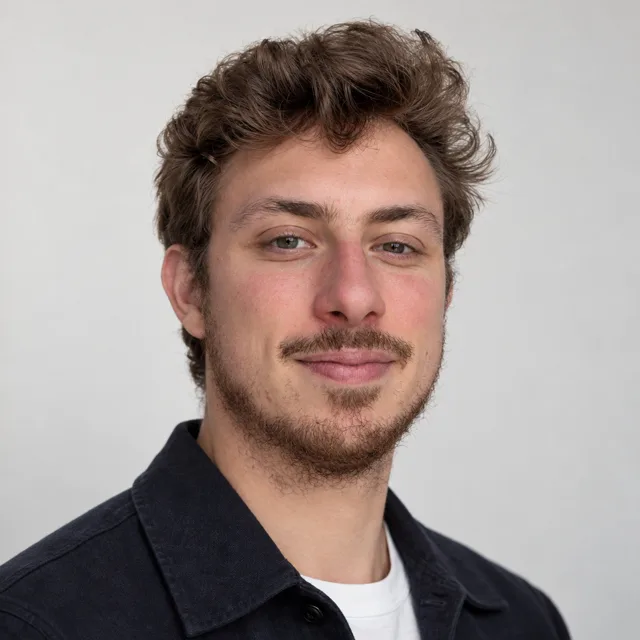
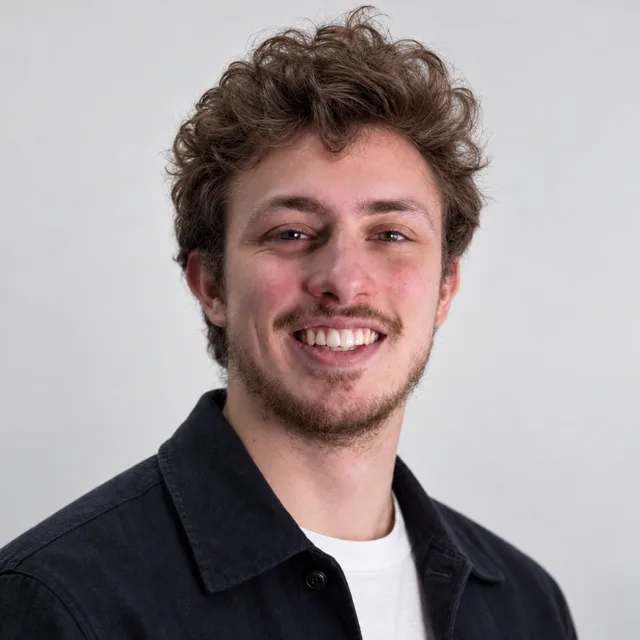
feat: show the work inside the project cards
Each expanded card now carries an image of the thing itself: the No-code
France session on the Make automation, the scoring workflow in n8n during
the live session, and the Podium Fantasy race calendar on mobile. Portrait
screenshots get `contain` so a phone capture is not cropped into nonsense.

The Qobuz cards carry no image and will not: internal screens do not go on
a public page.

Podium Fantasy links to podiumfantasy.com, which is live, and its card now
says what actually runs it: cron jobs pulling the public OpenF1 API and
settling scores with no manual input.

New portrait in the hero.

Changed region(s): [[0.0, 0.0, 0.9062, 1.0], [0.2188, 0.7812, 0.3125, 0.9062], [0.3125, 0.9062, 0.3438, 0.9375]]

diff --git a/src/components/Projects.tsx b/src/components/Projects.tsx
@@ -1,7 +1,9 @@
 "use client";
 
 import { useState } from "react";
+import Image from "next/image";
 import { motion } from "framer-motion";
+import { asset } from "@/lib/base-path";
 import AnimatedSection from "./AnimatedSection";
 
 interface Project {
@@ -14,6 +16,8 @@ interface Project {
   stack: string[];
   status?: string;
   link?: { href: string; label: string };
+  /** Qobuz work carries none on purpose: internal screens do not go public. */
+  media?: { src: string; alt: string; fit: "cover" | "contain" };
 }
 
 const projects: Project[] = [
@@ -51,6 +55,11 @@ const projects: Project[] = [
       href: "https://youtu.be/mV4yLqhmT4I",
       label: "Watch the session on No-code France",
     },
+    media: {
+      src: "/projects/nocode-make.webp",
+      alt: "No-code France session on the Make automation, February 2025",
+      fit: "cover",
+    },
   },
   {
     id: "ai-lead-scoring",
@@ -69,6 +78,11 @@ const projects: Project[] = [
     link: {
       href: "https://youtu.be/nkGQkhxtBQ8",
       label: "Watch the session on No-code France",
+    },
+    media: {
+      src: "/projects/ai-lead-scoring.webp",
+      alt: "The scoring workflow in n8n during the live session",
+      fit: "cover",
     },
   },
   {
@@ -94,10 +108,11 @@ const projects: Project[] = [
     challenge:
       "Build an F1 prediction game as a full-stack web application from scratch.",
     actions: [
-      "Designed and shipped MVP: prediction system, leaderboard, user accounts",
+      "Designed and shipped the MVP: prediction system, leaderboard, user accounts",
+      "Cron jobs sync race results from the public OpenF1 API and settle scores with no manual input",
       "Full-stack development from idea to deployed product, independently",
     ],
-    result: "Proof of ability to go from idea to deployed product independently",
+    result: "Live in production with real players, season after season",
     stack: [
       "Next.js 14",
       "React",
@@ -106,6 +121,12 @@ const projects: Project[] = [
       "PostgreSQL",
       "Railway",
     ],
+    link: { href: "https://www.podiumfantasy.com/", label: "Play it at podiumfantasy.com" },
+    media: {
+      src: "/projects/podium-fantasy.webp",
+      alt: "The Podium Fantasy race calendar on mobile",
+      fit: "contain",
+    },
   },
 ];
 
@@ -157,6 +178,23 @@ function ProjectCard({ project, index }: { project: Project; index: number }) {
             inert={!isOpen}
           >
             <div className="pt-6 mt-6 border-t border-border">
+              {project.media && (
+                <div className="mb-6 rounded-xl overflow-hidden border border-border bg-background">
+                  <Image
+                    src={asset(project.media.src)}
+                    alt={project.media.alt}
+                    width={1120}
+                    height={630}
+                    loading="lazy"
+                    className={`w-full ${
+                      project.media.fit === "contain"
+                        ? "h-64 object-contain py-3"
+                        : "aspect-video object-cover"
+                    }`}
+                  />
+                </div>
+              )}
+
               <h4 className="text-sm font-semibold text-accent mb-3">
                 What I did
               </h4>
